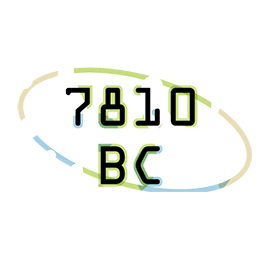
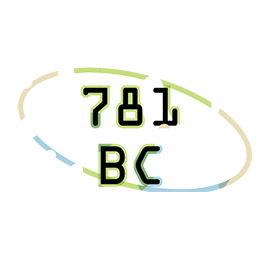
fixed missing date, and socring order.

Changed region(s): [[0.25, 0.3125, 0.7812, 0.5312]]

diff --git a/Client/Assets/Source/EventCard.cs b/Client/Assets/Source/EventCard.cs
@@ -24,12 +24,12 @@ public class EventCard : MonoBehaviour
 		"Beginning of World War I.",
 		"Death of Nelson Mandela.",
 		"Euro becomes the official currency\nof 12 European countries.",
-		"Cook' discovery of New South Wales,\nAustralia.",
+		"Cook's discovery of New South Wales,\nAustralia.",
 		"Flinders circumnavigates Australia.",
 		"Australian Prime Minister\nHarold Holt Disappears.",
 		"English Civil War: The Battle\nof Alton takes place in Hampshire.",
 		"Beatles World Tour begins in\nCopenhagen, Denmark.",
-		"7810BC....date 20.",
+		"Oldest Chinese recording of a solar\neclipse.",
 		"US Female Figure Skating\nchampionship won by Peggy Fleming.",
 		"Buddy Holly records \"Blue Days\nBlack Night\" in Nashville.",
 		"1st English Parliament called\ninto session by Earl of Leicester.",
@@ -64,10 +64,10 @@ public class EventCard : MonoBehaviour
 	{
 		for( int i = 0; i < events.Length; ++i )
 		{
-			var eventPiece = EventPieces[i];
+			var eventPiece = EventPieces[2 - i];
 			eventPiece.SetTexture( eventTextures[events[i]], events[i] );		
 			
-			TextBits[i].text = _eventStrings[ events[i] ];
+			TextBits[2 - i].text = _eventStrings[ events[i] ];
 		}
 	}
 	
